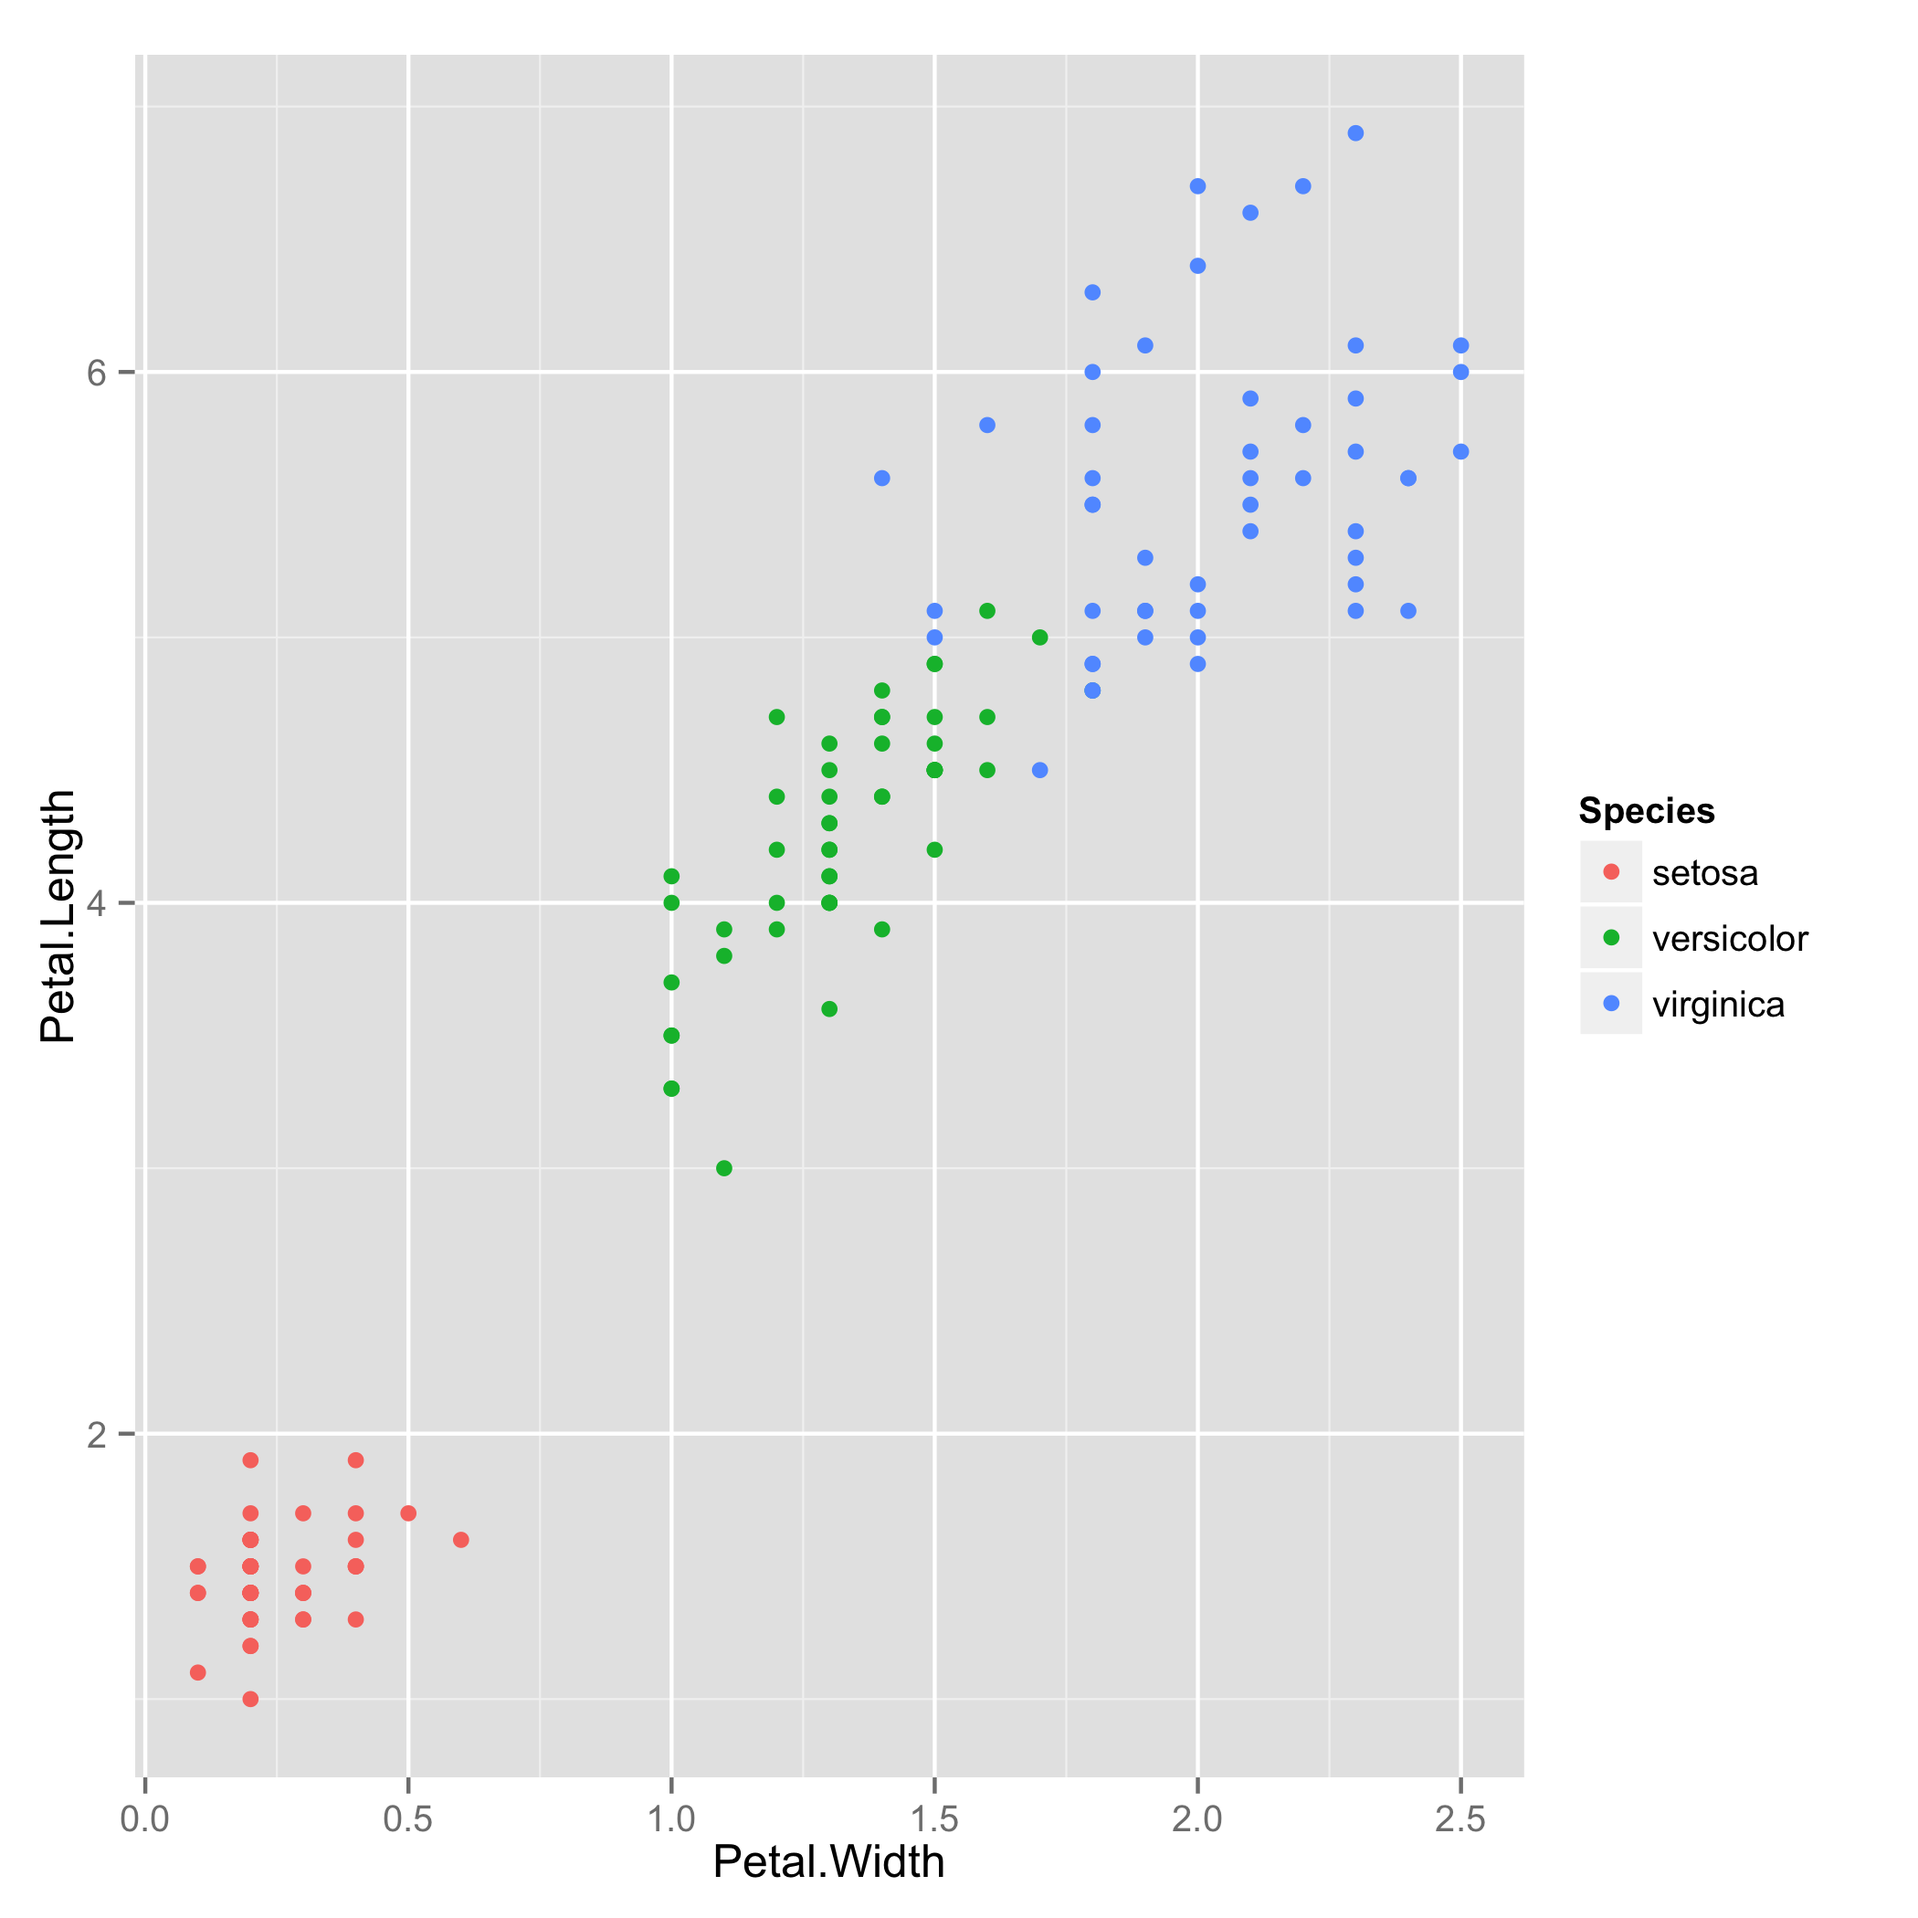
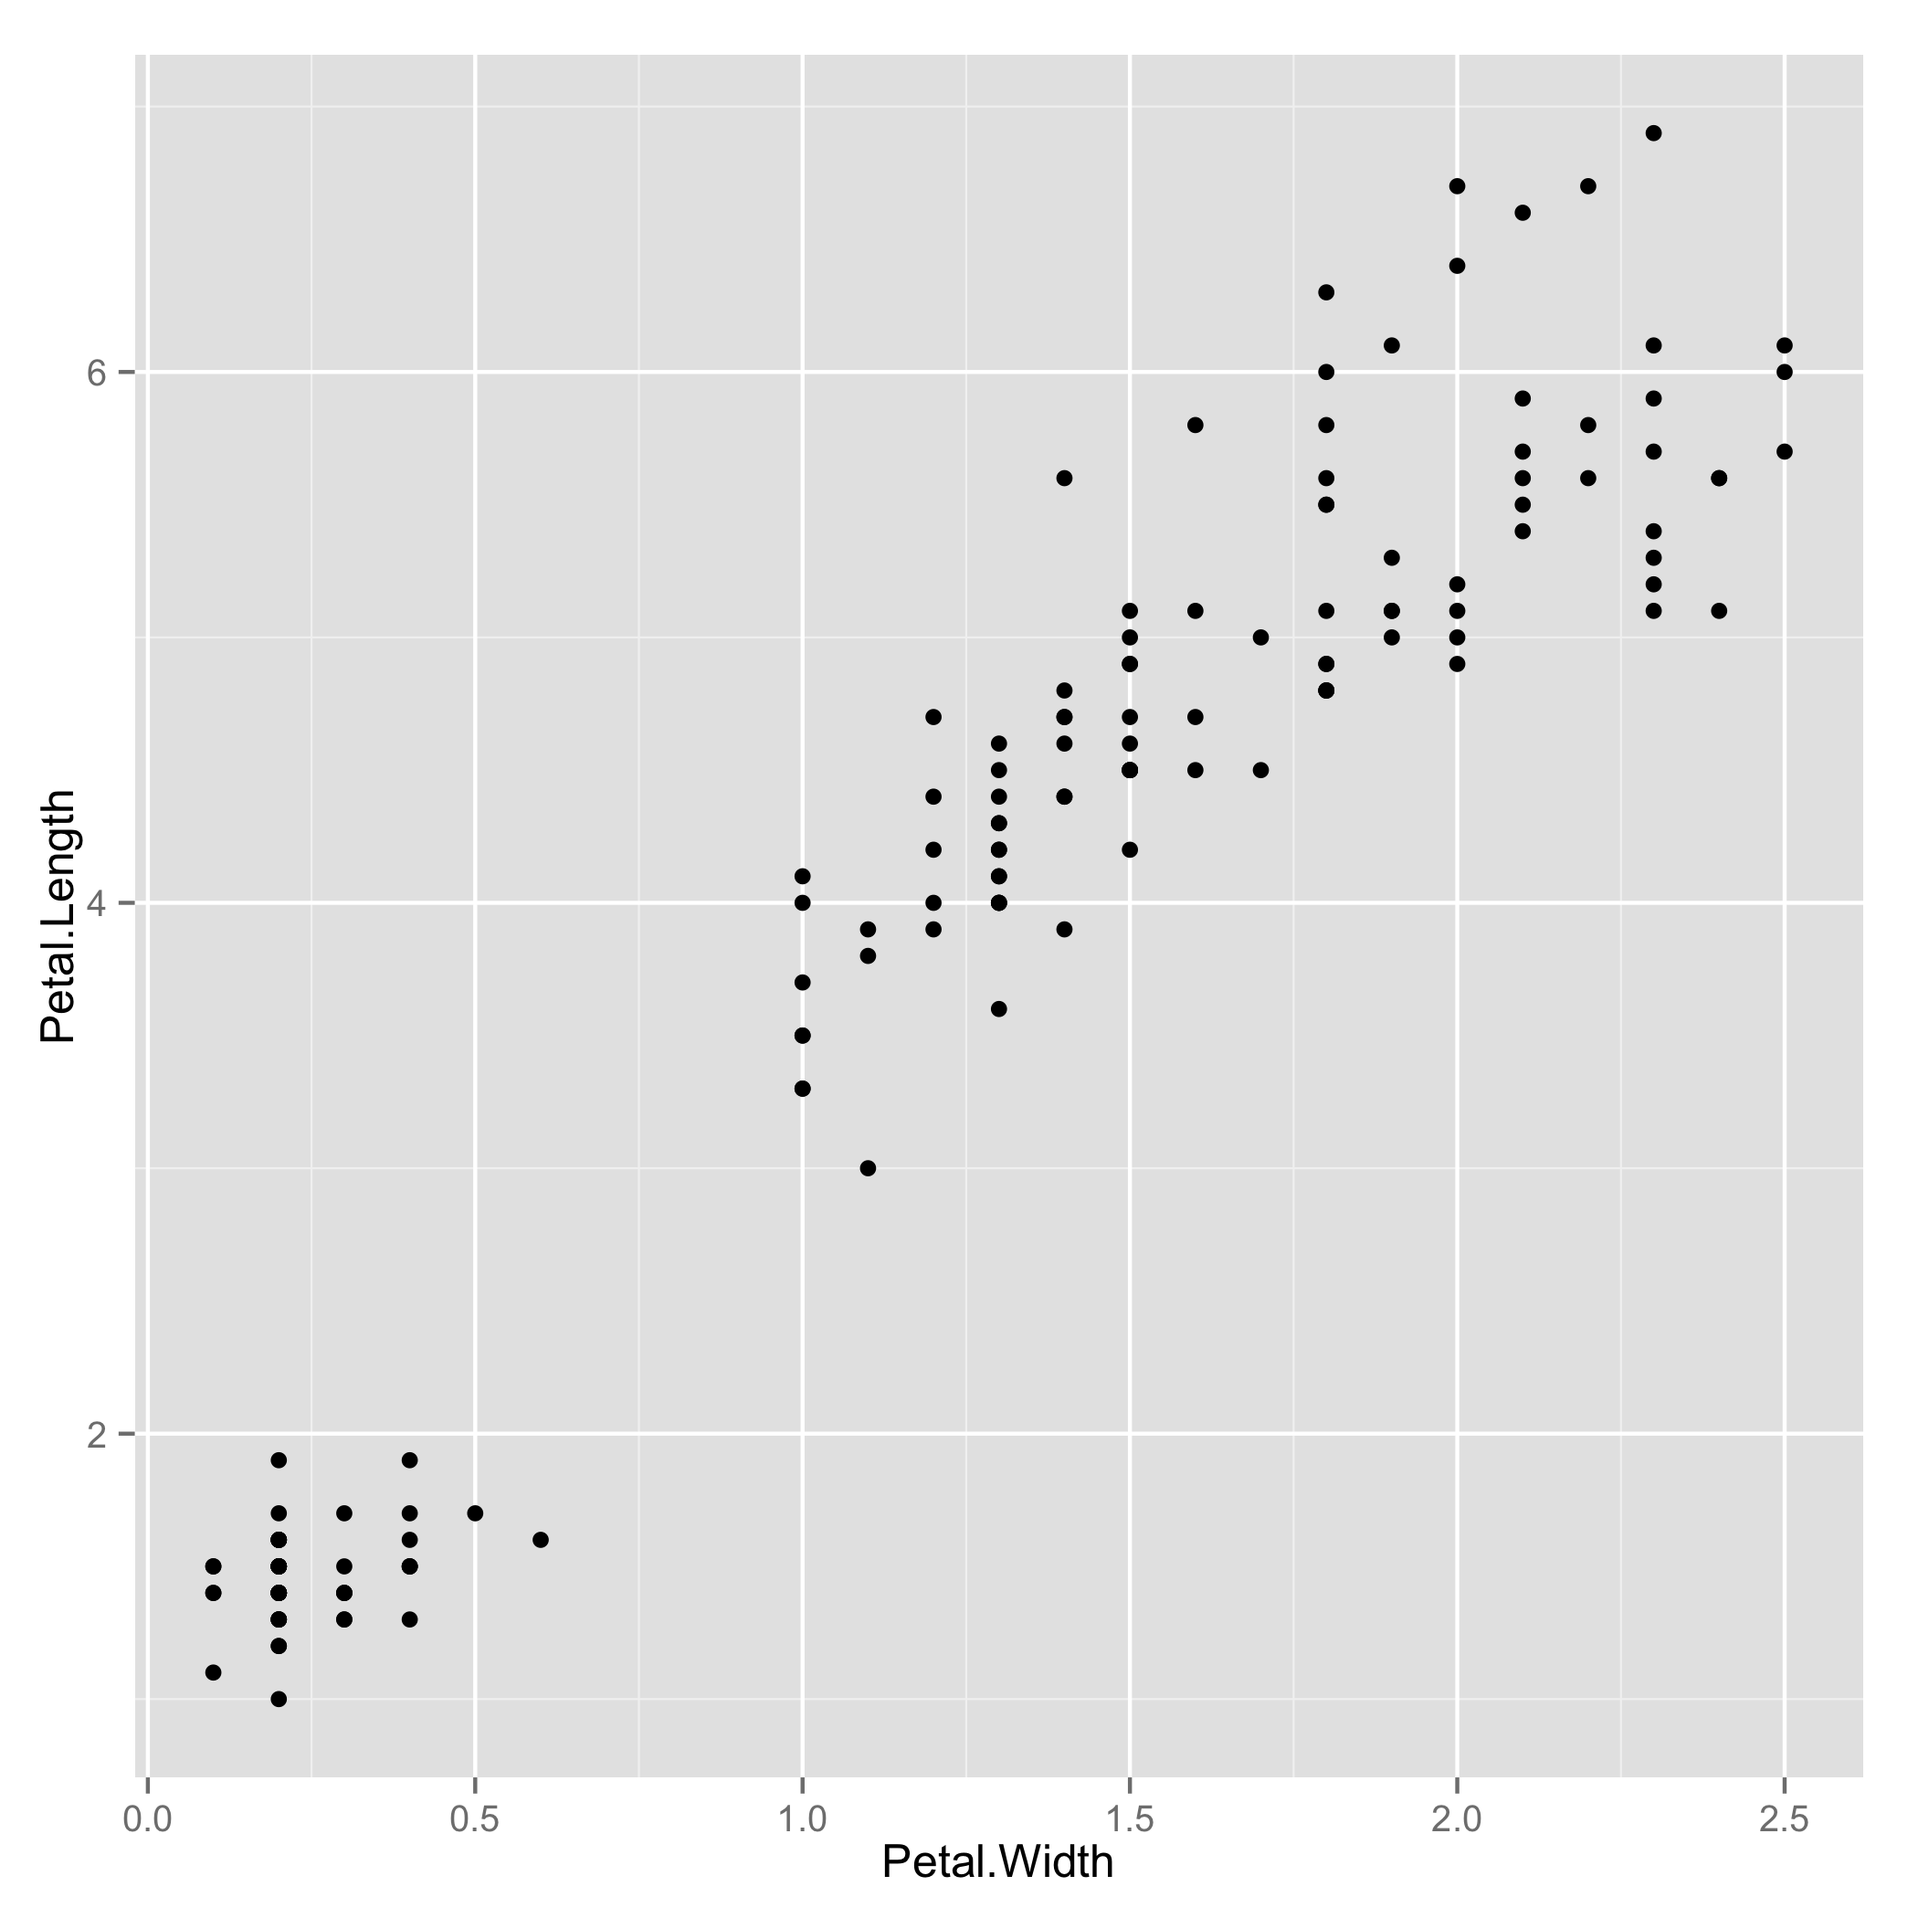
.

diff --git a/docs/qq.md b/docs/qq.md
@@ -16,12 +16,19 @@ qq.R - plot quantitative (x) versus quantitative (y) data, i.e. scatter plots.
 ```
   qq.R iris.csv Petal.Width Petal.Length
 ```
-<img src="images/iris-wl.png" width=70% height=70% />
 
-Categorized further by species.  In this case, two plots are produced: (i) groups are plotted together in one plot, (ii) groups are separated into different plots.
+The output consists of 3 plots, with and without data fitting.
+
+<img src="images/iris-wl1.png" width=70% height=70% />
+<img src="images/iris-wl2.png" width=70% height=70% />
+<img src="images/iris-wl3.png" width=70% height=70% />
+
+Categorized further by species.
 
 ```
   qq.R iris.csv Petal.Width Petal.Length Species
 ```
-<img src="images/iris-wl1.png" width=70% height=70% />
-<img src="images/iris-wl2.png" width=70% height=70% />
+
+<img src="images/iris-c1.png" width=70% height=70% />
+<img src="images/iris-c2.png" width=70% height=70% />
+<img src="images/iris-c3.png" width=70% height=70% />
